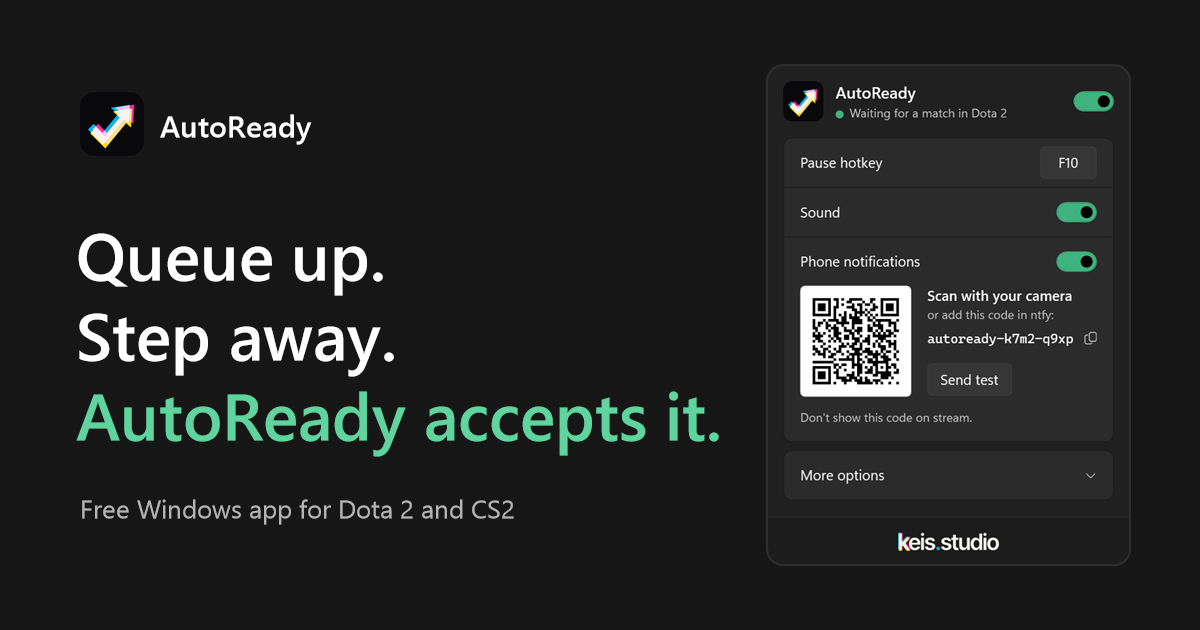
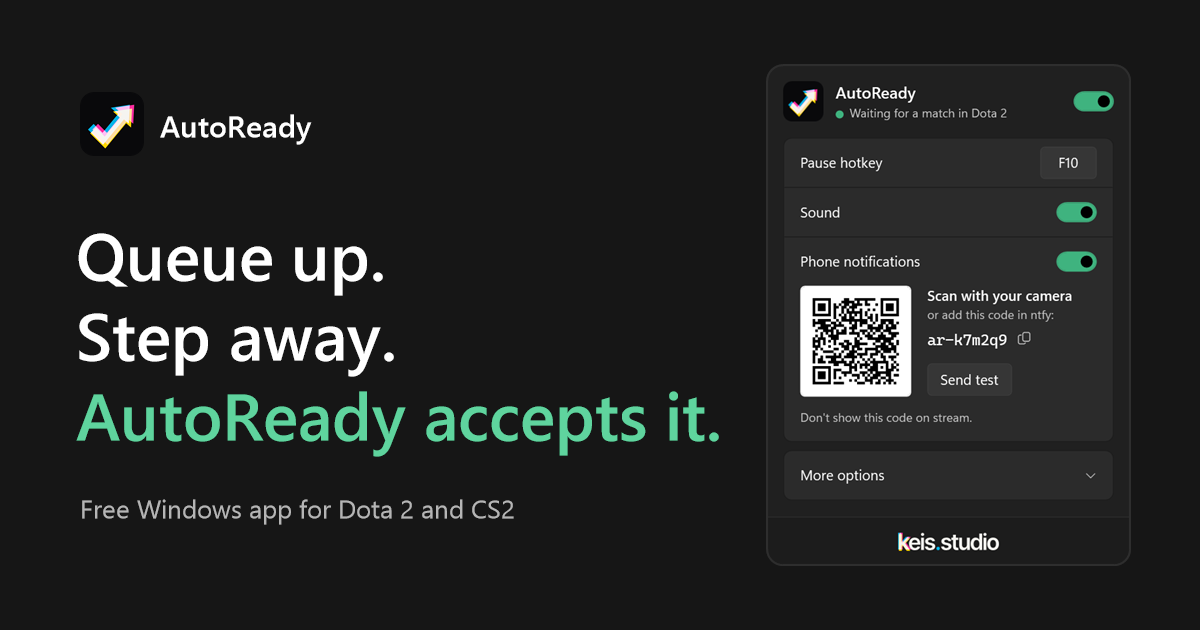
Shorten new phone codes to ar- plus 6 characters
About 890 million combinations keeps the chance of two users sharing a
channel around 0.01% even at 100k users; old 8-character codes keep
working. Refresh screenshots.

Changed region(s): [[0.6783, 0.4524, 0.925, 0.6333]]

diff --git a/docs/phone/index.html b/docs/phone/index.html
@@ -240,9 +240,9 @@
     });
   }
 
-  // El codigo viene despues del # (no se manda a ningun servidor). Formato de AutoReady: autoready-xxxx-xxxx (o ar-xxxxxxxx en los codigos viejos).
+  // El codigo viene despues del # (no se manda a ningun servidor). Formato de AutoReady: ar- y 6 letras o numeros (8 en los codigos viejos).
   var topic = decodeURIComponent(location.hash.slice(1)).trim();
-  if (!/^(ar-[a-z0-9]{8}|autoready-[a-z0-9]{4}-[a-z0-9]{4})$/.test(topic)) { document.getElementById("invalid").hidden = false; return; }
+  if (!/^ar-([a-z0-9]{6}|[a-z0-9]{8})$/.test(topic)) { document.getElementById("invalid").hidden = false; return; }
   document.getElementById("setup").hidden = false;
   [].forEach.call(document.querySelectorAll(".topic"), function (el) { el.textContent = topic; });
 

diff --git a/src/Config.cs b/src/Config.cs
@@ -98,20 +98,19 @@ namespace AutoReady
             return c;
         }
 
-        // Los topics de ntfy.sh son publicos: quien sabe el nombre lo lee. Por eso uno aleatorio por usuario,
-        // con el nombre de la app adelante (asi se reconoce en la lista de ntfy) y dos grupos de 4 para leerlo de un vistazo
-        // (autoready-k7m2-q9xp), sin letras que se confunden (0/o, 1/l/i). Un numero corto no sirve: dos usuarios caerian en
-        // el mismo canal y cualquiera podria adivinarlo. Los codigos viejos (ar-xxxxxxxx) siguen valiendo: cambiarlos
-        // cortaria los avisos de quien ya se suscribio.
+        // Los topics de ntfy.sh son publicos: quien sabe el nombre lo lee. Por eso uno aleatorio por usuario, lo mas corto
+        // posible para escribirlo o pegarlo facil (ar-k7m2q9) y sin letras que se confunden (0/o, 1/l/i).
+        // 6 caracteres de 31 = ~890 millones: aun con 100 mil usuarios, la chance de que a alguien le toque el canal de otro
+        // es de ~0,01 %. Con 5 seria ~0,35 %. Los codigos viejos (ar- y 8 caracteres) siguen valiendo.
         static string NewTopic()
         {
             const string alphabet = "abcdefghjkmnpqrstuvwxyz23456789";
-            byte[] rnd = new byte[8];
+            byte[] rnd = new byte[6];
             using (System.Security.Cryptography.RandomNumberGenerator rng = System.Security.Cryptography.RandomNumberGenerator.Create())
                 rng.GetBytes(rnd);
-            char[] chars = new char[8];
-            for (int i = 0; i < 8; i++) chars[i] = alphabet[rnd[i] % alphabet.Length];
-            return "autoready-" + new string(chars, 0, 4) + "-" + new string(chars, 4, 4);   // 31^8: unos 850 mil millones de combinaciones
+            char[] chars = new char[6];
+            for (int i = 0; i < 6; i++) chars[i] = alphabet[rnd[i] % alphabet.Length];
+            return "ar-" + new string(chars);
         }
 
         public void Save()

diff --git a/src/Panel.cs b/src/Panel.cs
@@ -430,7 +430,7 @@ namespace AutoReady
             TextBox code = new TextBox
             {
                 Text = host.Cfg.NtfyTopic, IsReadOnly = true, BorderThickness = new Thickness(0), Background = Brushes.Transparent,
-                Foreground = theme.Text, FontFamily = new FontFamily("Cascadia Mono, Consolas"), FontSize = 13,
+                Foreground = theme.Text, FontFamily = new FontFamily("Cascadia Mono, Consolas"), FontSize = 15,
                 Padding = new Thickness(-2, 0, 0, 0), Margin = new Thickness(0, 4, 0, 0), CaretBrush = Brushes.Transparent,
             };
             AutomationProperties.SetName(code, S.PhoneOrCode);

diff --git a/AGENTS.md b/AGENTS.md
@@ -120,7 +120,7 @@ instalar nada. Consecuencias:
 - Todo texto visible va en `Strings.cs` (`S.*`), en español rioplatense (voseo) e inglés; nunca literales en la UI. Los logs quedan en un solo idioma. Textos genéricos: el nombre del juego entra como parámetro.
 
 ## Celular (ntfy)
-- Código aleatorio `autoready-xxxx-xxxx` (los viejos `ar-xxxxxxxx` siguen valiendo; sin letras ambiguas). El QR del panel abre `docs/phone/#<código>`: en Android
+- Código aleatorio `ar-xxxxxx` (6 caracteres sin letras ambiguas, ~890 millones; los viejos `ar-xxxxxxxx` siguen valiendo). El QR del panel abre `docs/phone/#<código>`: en Android
   conecta ntfy de un toque y en iPhone es un tutorial con dibujos (instalar, copiar, +, pegar, Subscribe, permitir).
 - La app de ntfy para **iPhone no soporta links ni QR**; en Android funciona `ntfy://ntfy.sh/<código>`. Mejorar esto es #1.
 
